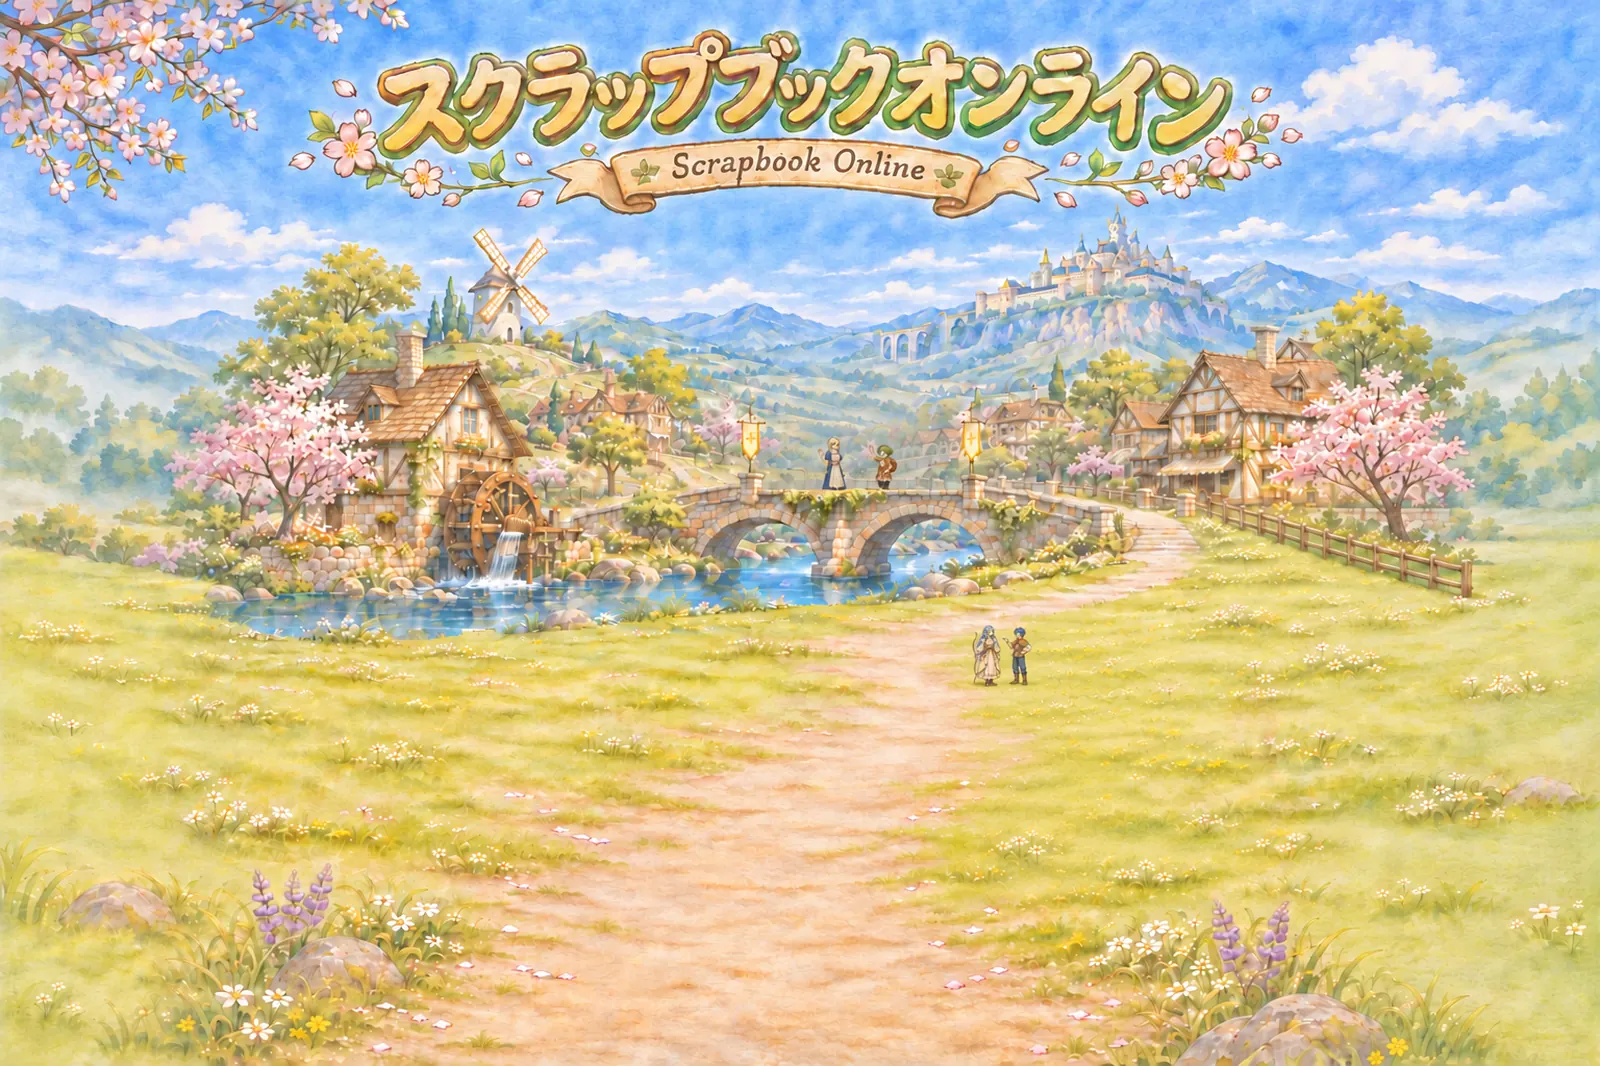
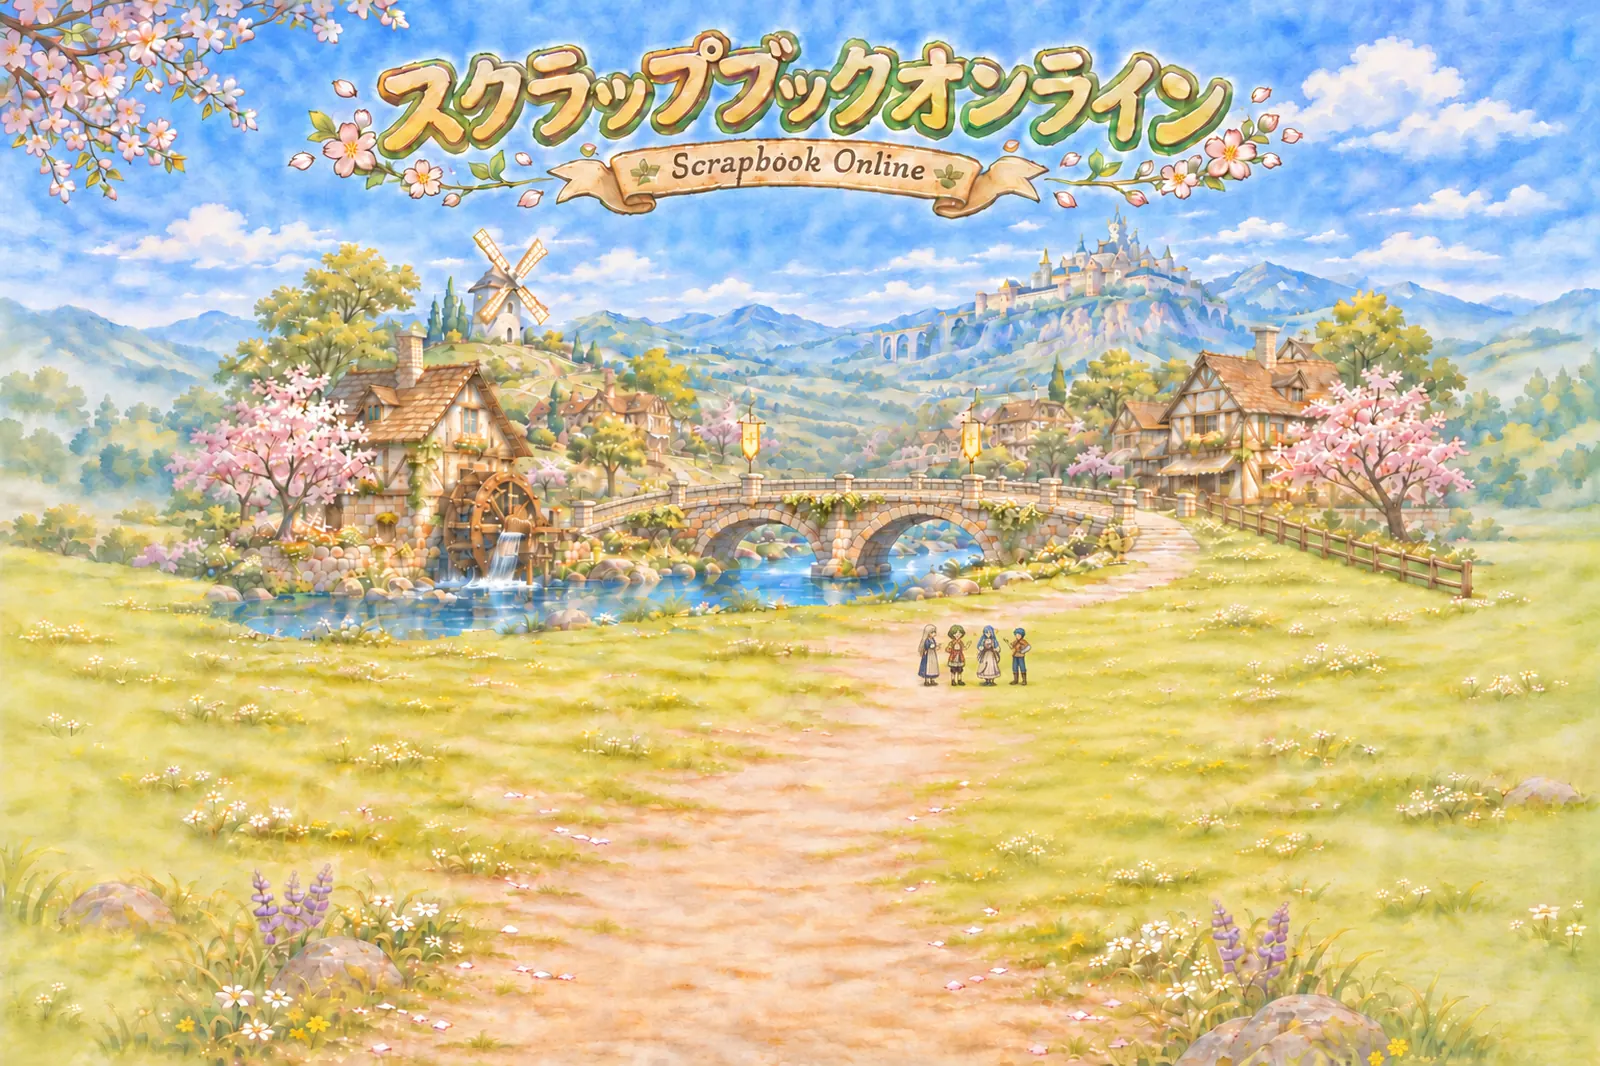
ログイン前ホーム画面：4人を手前にまとめた背景に差し替え
Claude-Session: https://claude.ai/code/session_01YTg7wiQqYamomvMZ4WcZzH

diff --git a/web/shell/sbocli.html b/web/shell/sbocli.html
@@ -1573,7 +1573,7 @@
 		--bg-ratio: 2;
 		--town-bottom: 0.42;
 		--bg-w: max(100vw, calc(100dvh / 2));
-		--bg-end: #ccd496;
+		--bg-end: #d0d9a3;
 		--bg-h: calc(var(--bg-w) * var(--bg-ratio));
 		display: block;
 		overflow-x: hidden;
